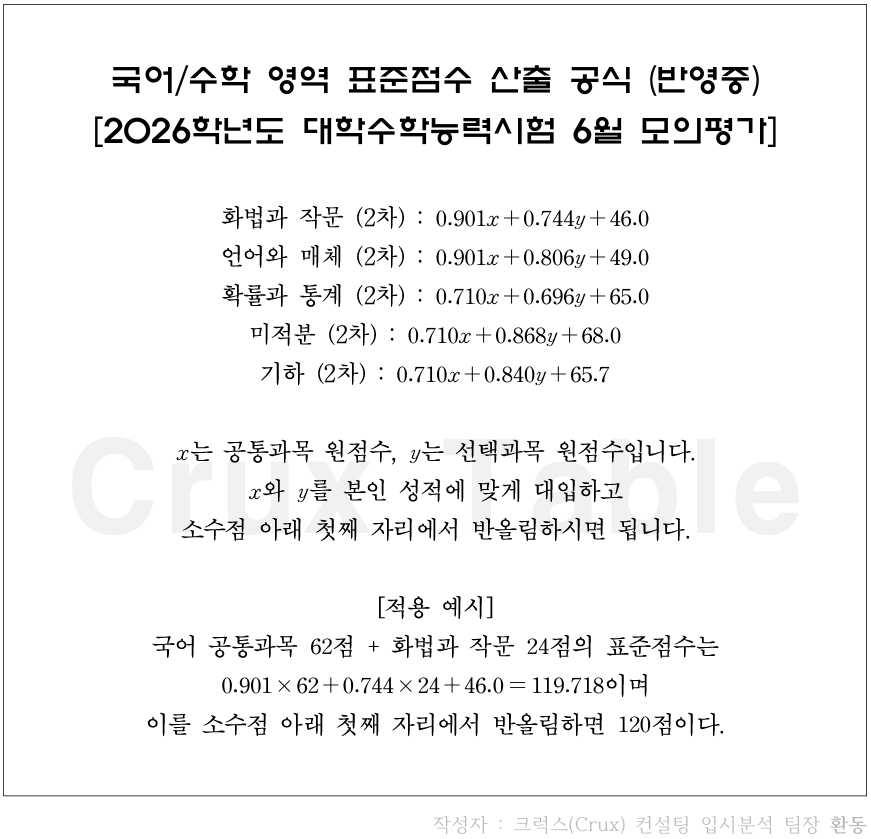
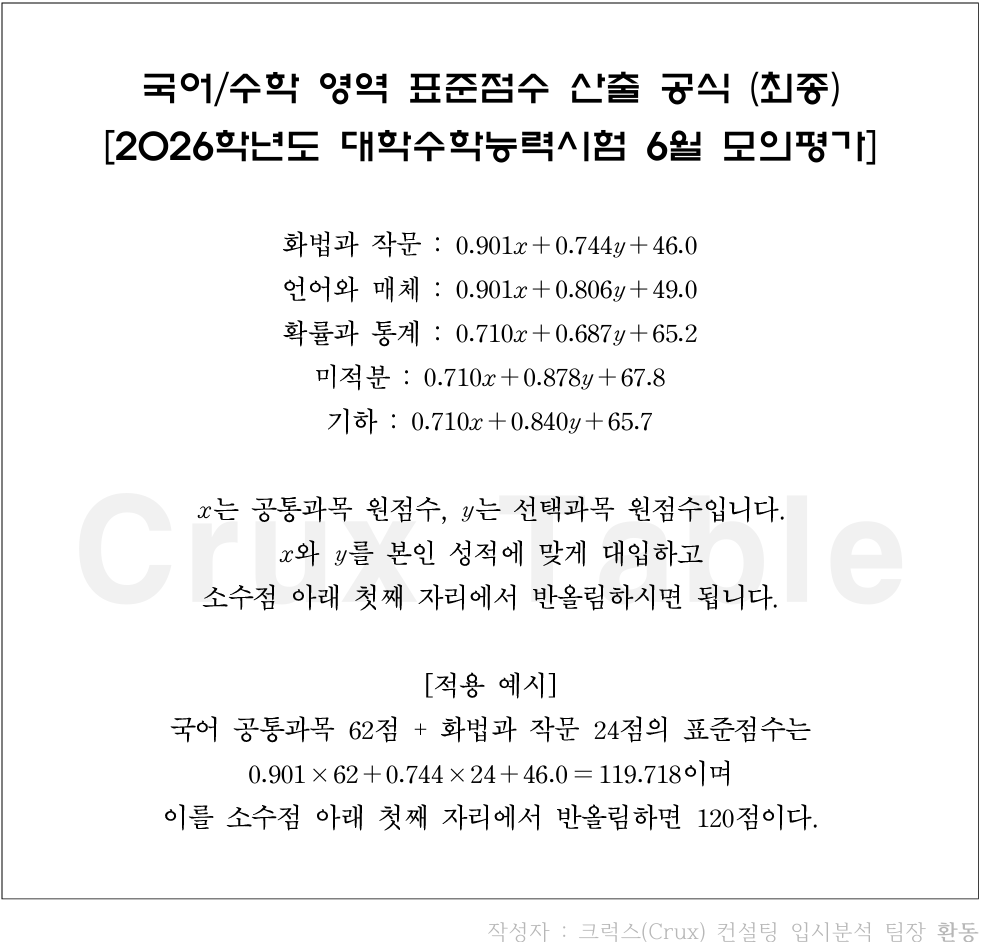
26 6평 최종

diff --git a/js/data.js b/js/data.js
@@ -4512,8 +4512,8 @@ let data = {
 ],
 "수학": [
     {
-        "확률과 통계": [0.71, 0.696, 65],
-        "미적분": [0.71, 0.868, 68],
+        "확률과 통계": [0.71, 0.687, 65.2],
+        "미적분": [0.71, 0.878, 67.8],
         "기하": [0.71, 0.84, 65.7]
     },
 ["143", "100", "1"],
